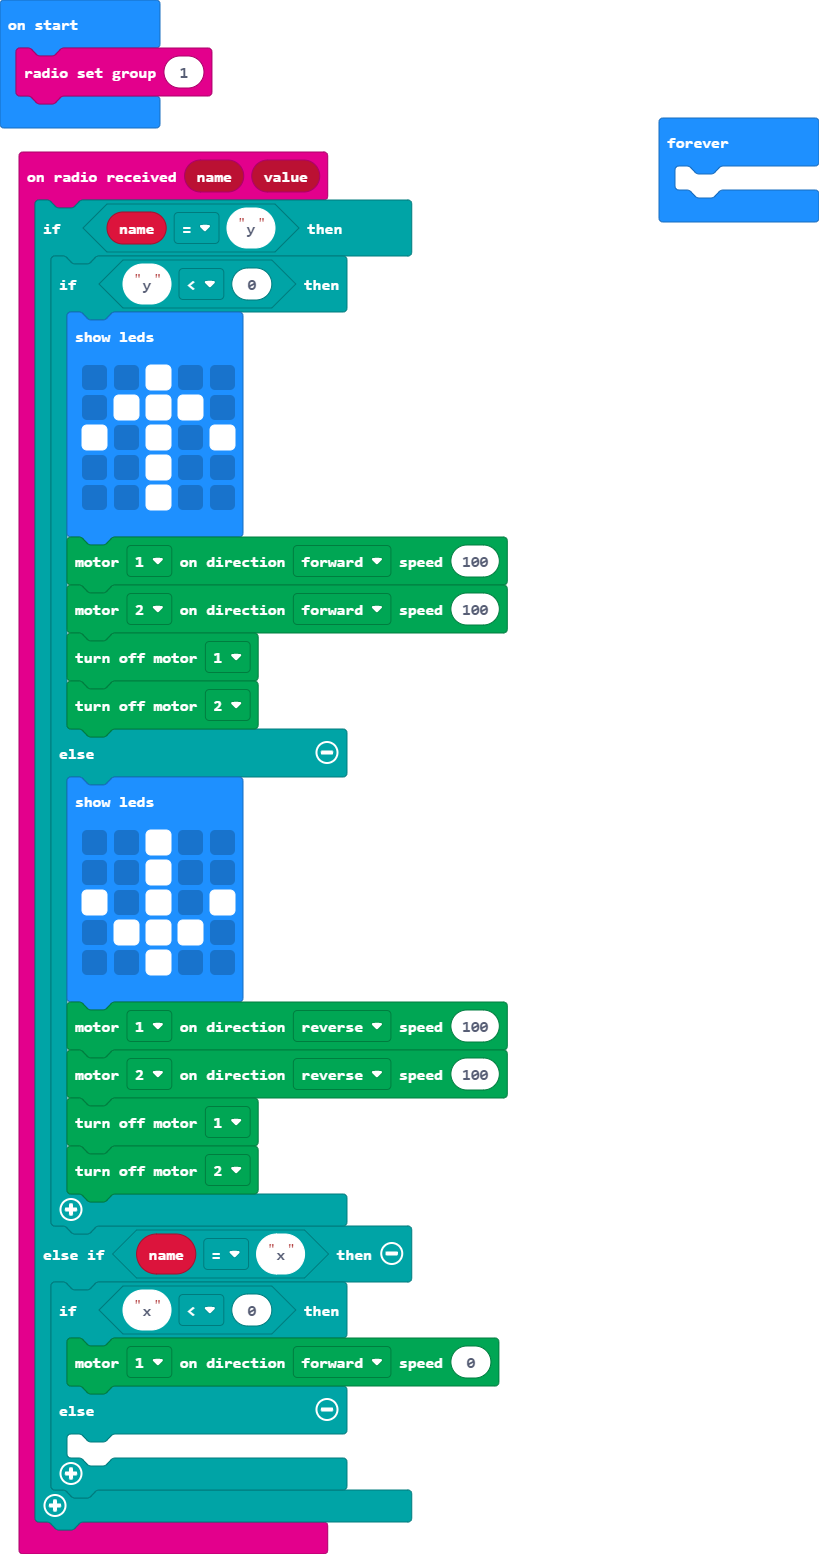
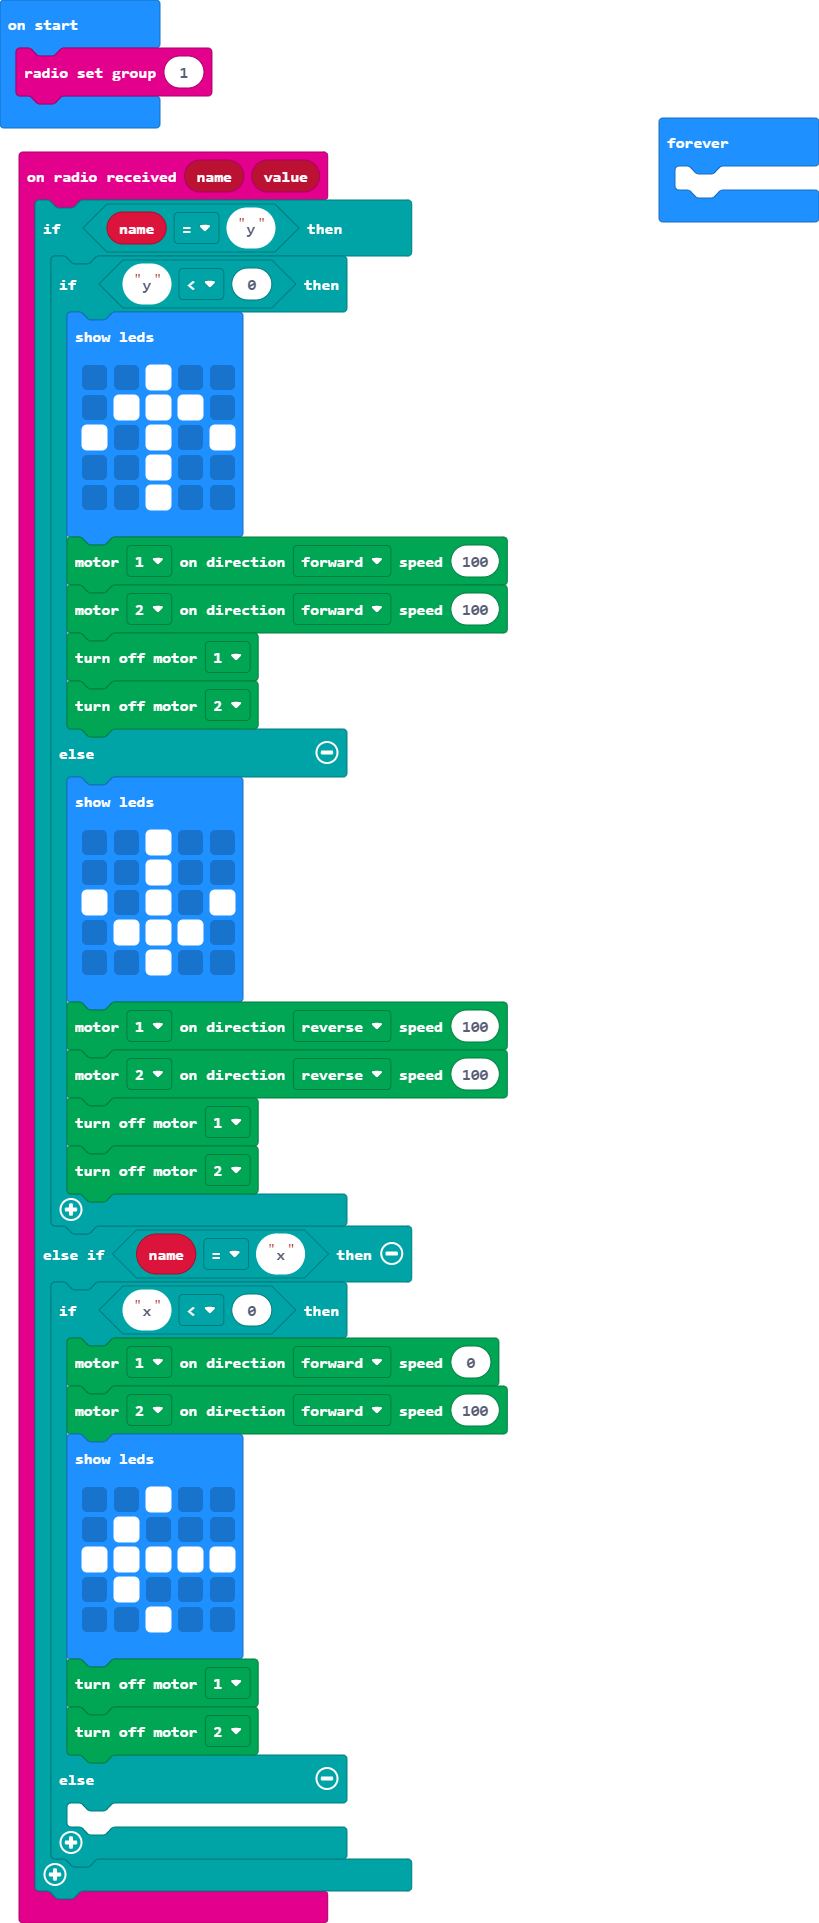
Update main.blocks, main.ts

diff --git a/main.ts b/main.ts
@@ -28,6 +28,16 @@ radio.onReceivedValue(function (name, value) {
     } else if (name == "x") {
         if (("x" as any) < (0 as any)) {
             kitronik_motor_driver.motorOn(kitronik_motor_driver.Motors.Motor1, kitronik_motor_driver.MotorDirection.Forward, 0)
+            kitronik_motor_driver.motorOn(kitronik_motor_driver.Motors.Motor2, kitronik_motor_driver.MotorDirection.Forward, 100)
+            basic.showLeds(`
+                . . # . .
+                . # . . .
+                # # # # #
+                . # . . .
+                . . # . .
+                `)
+            kitronik_motor_driver.motorOff(kitronik_motor_driver.Motors.Motor1)
+            kitronik_motor_driver.motorOff(kitronik_motor_driver.Motors.Motor2)
         } else {
         	
         }
